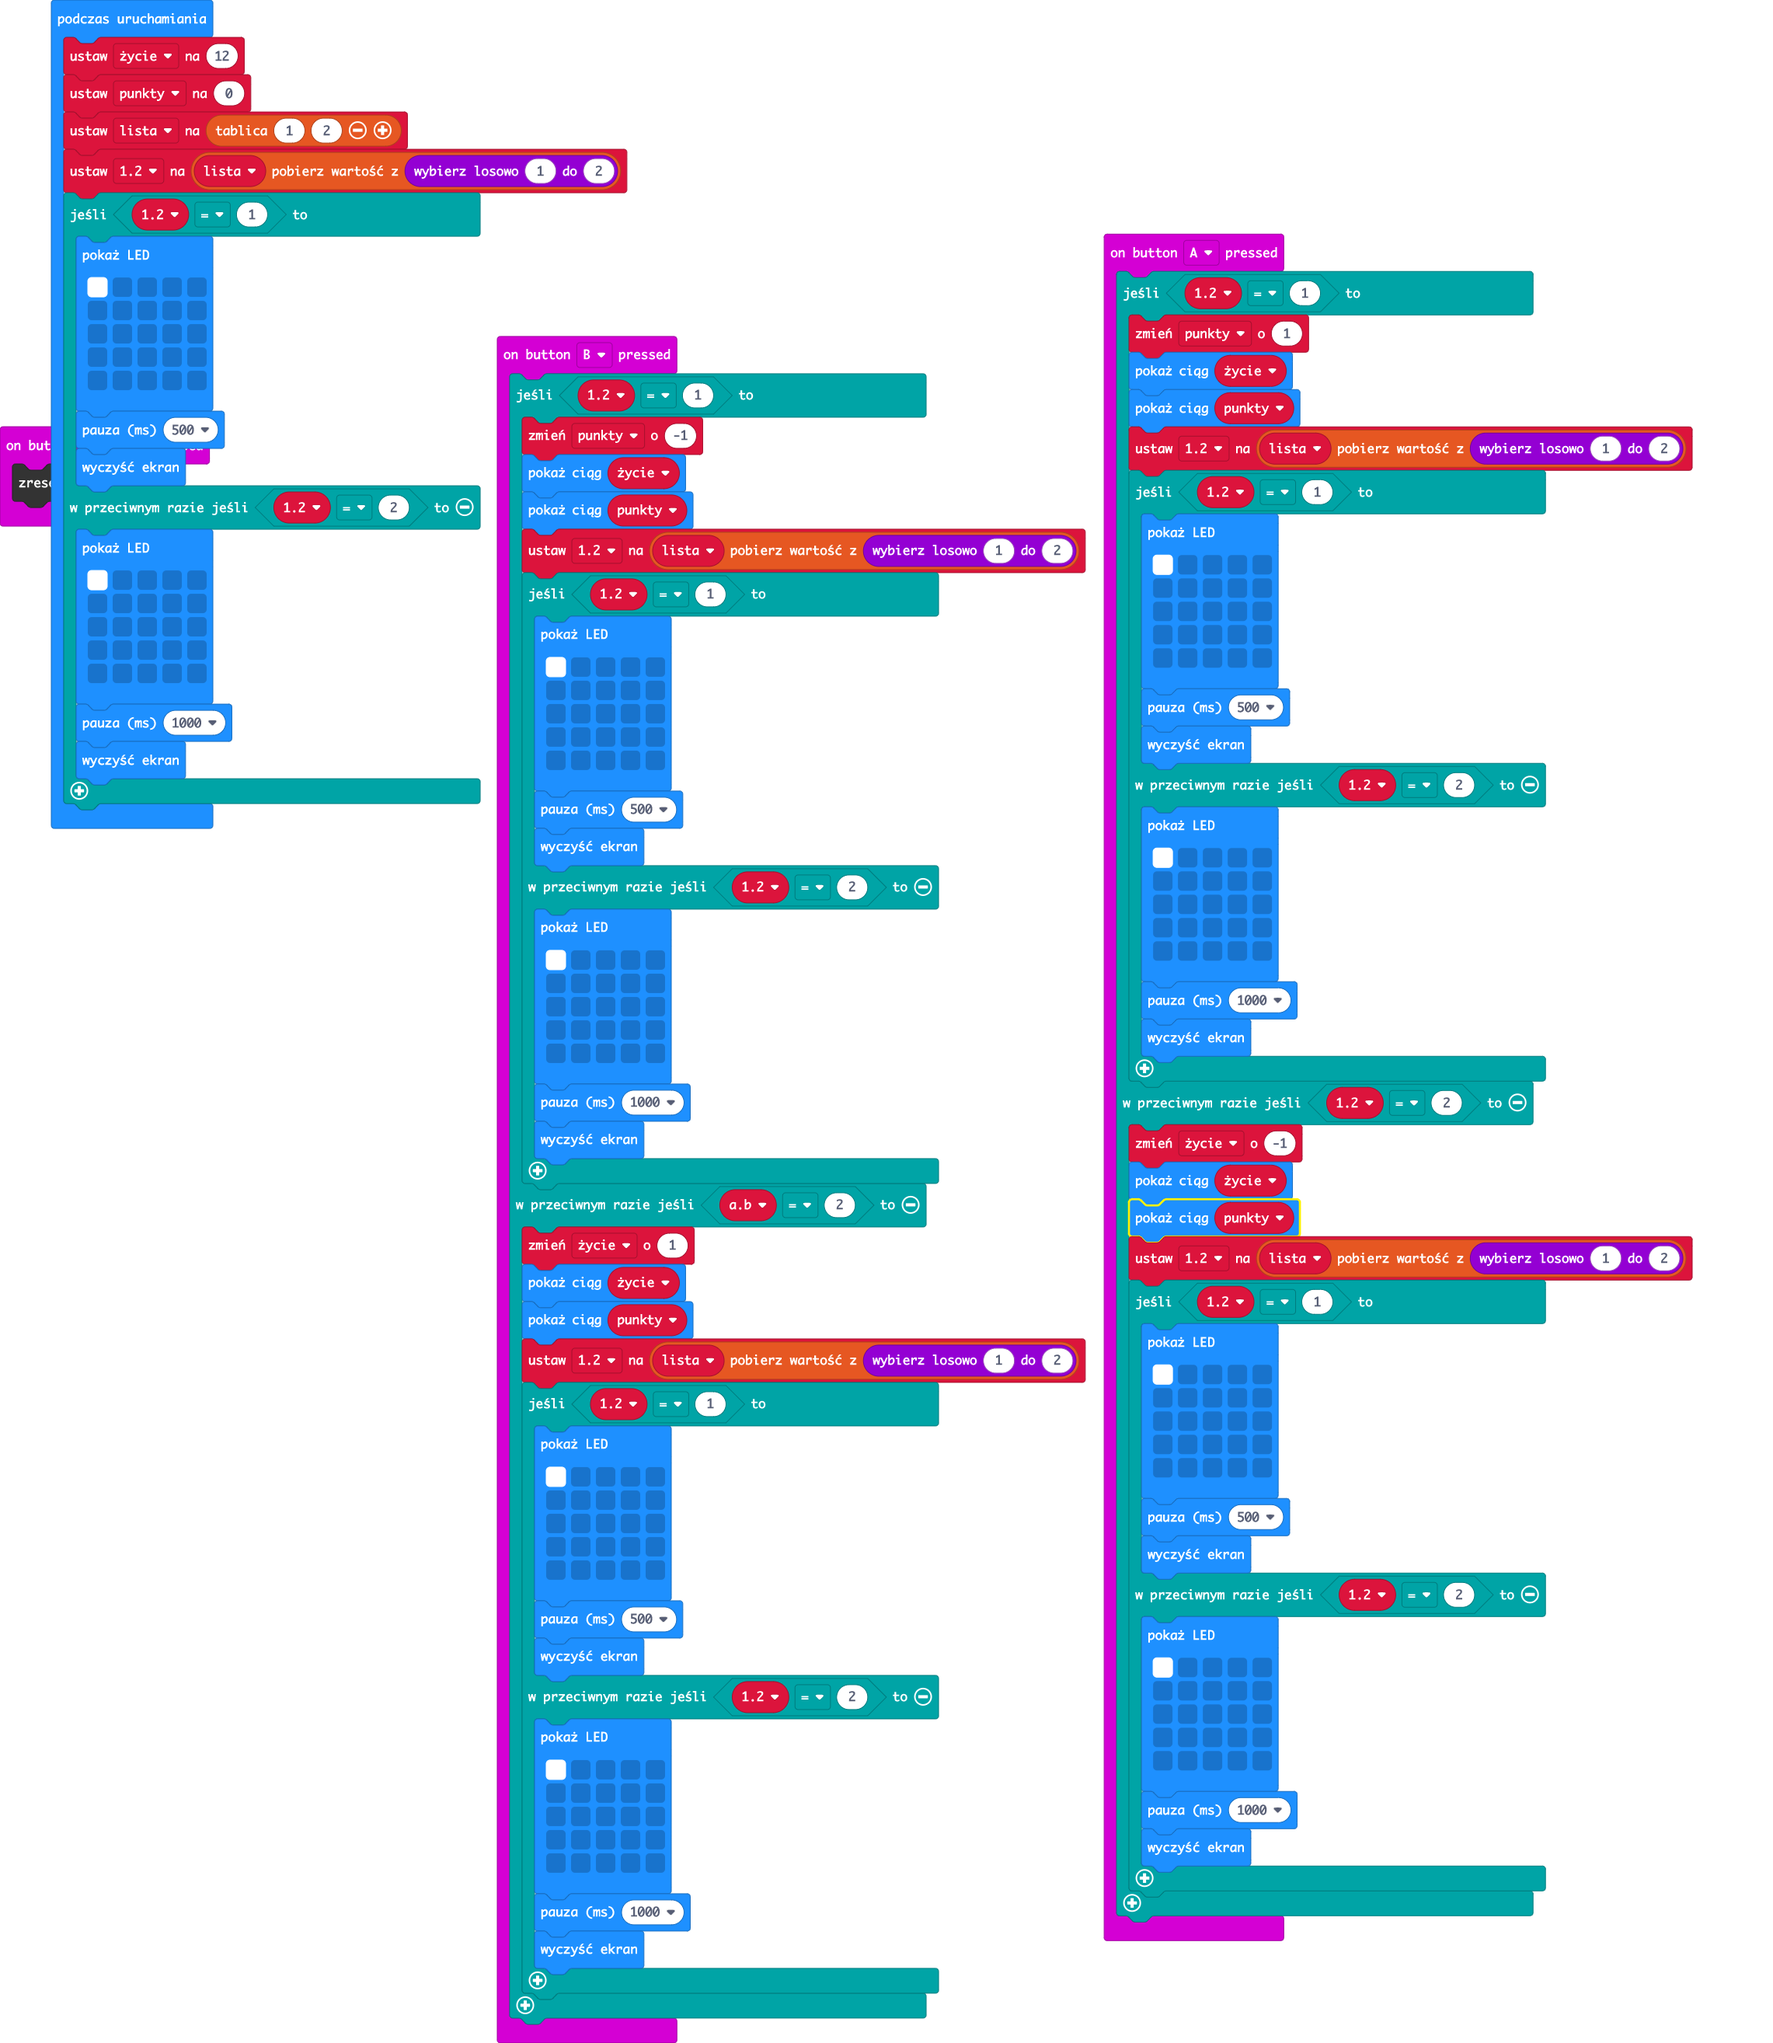
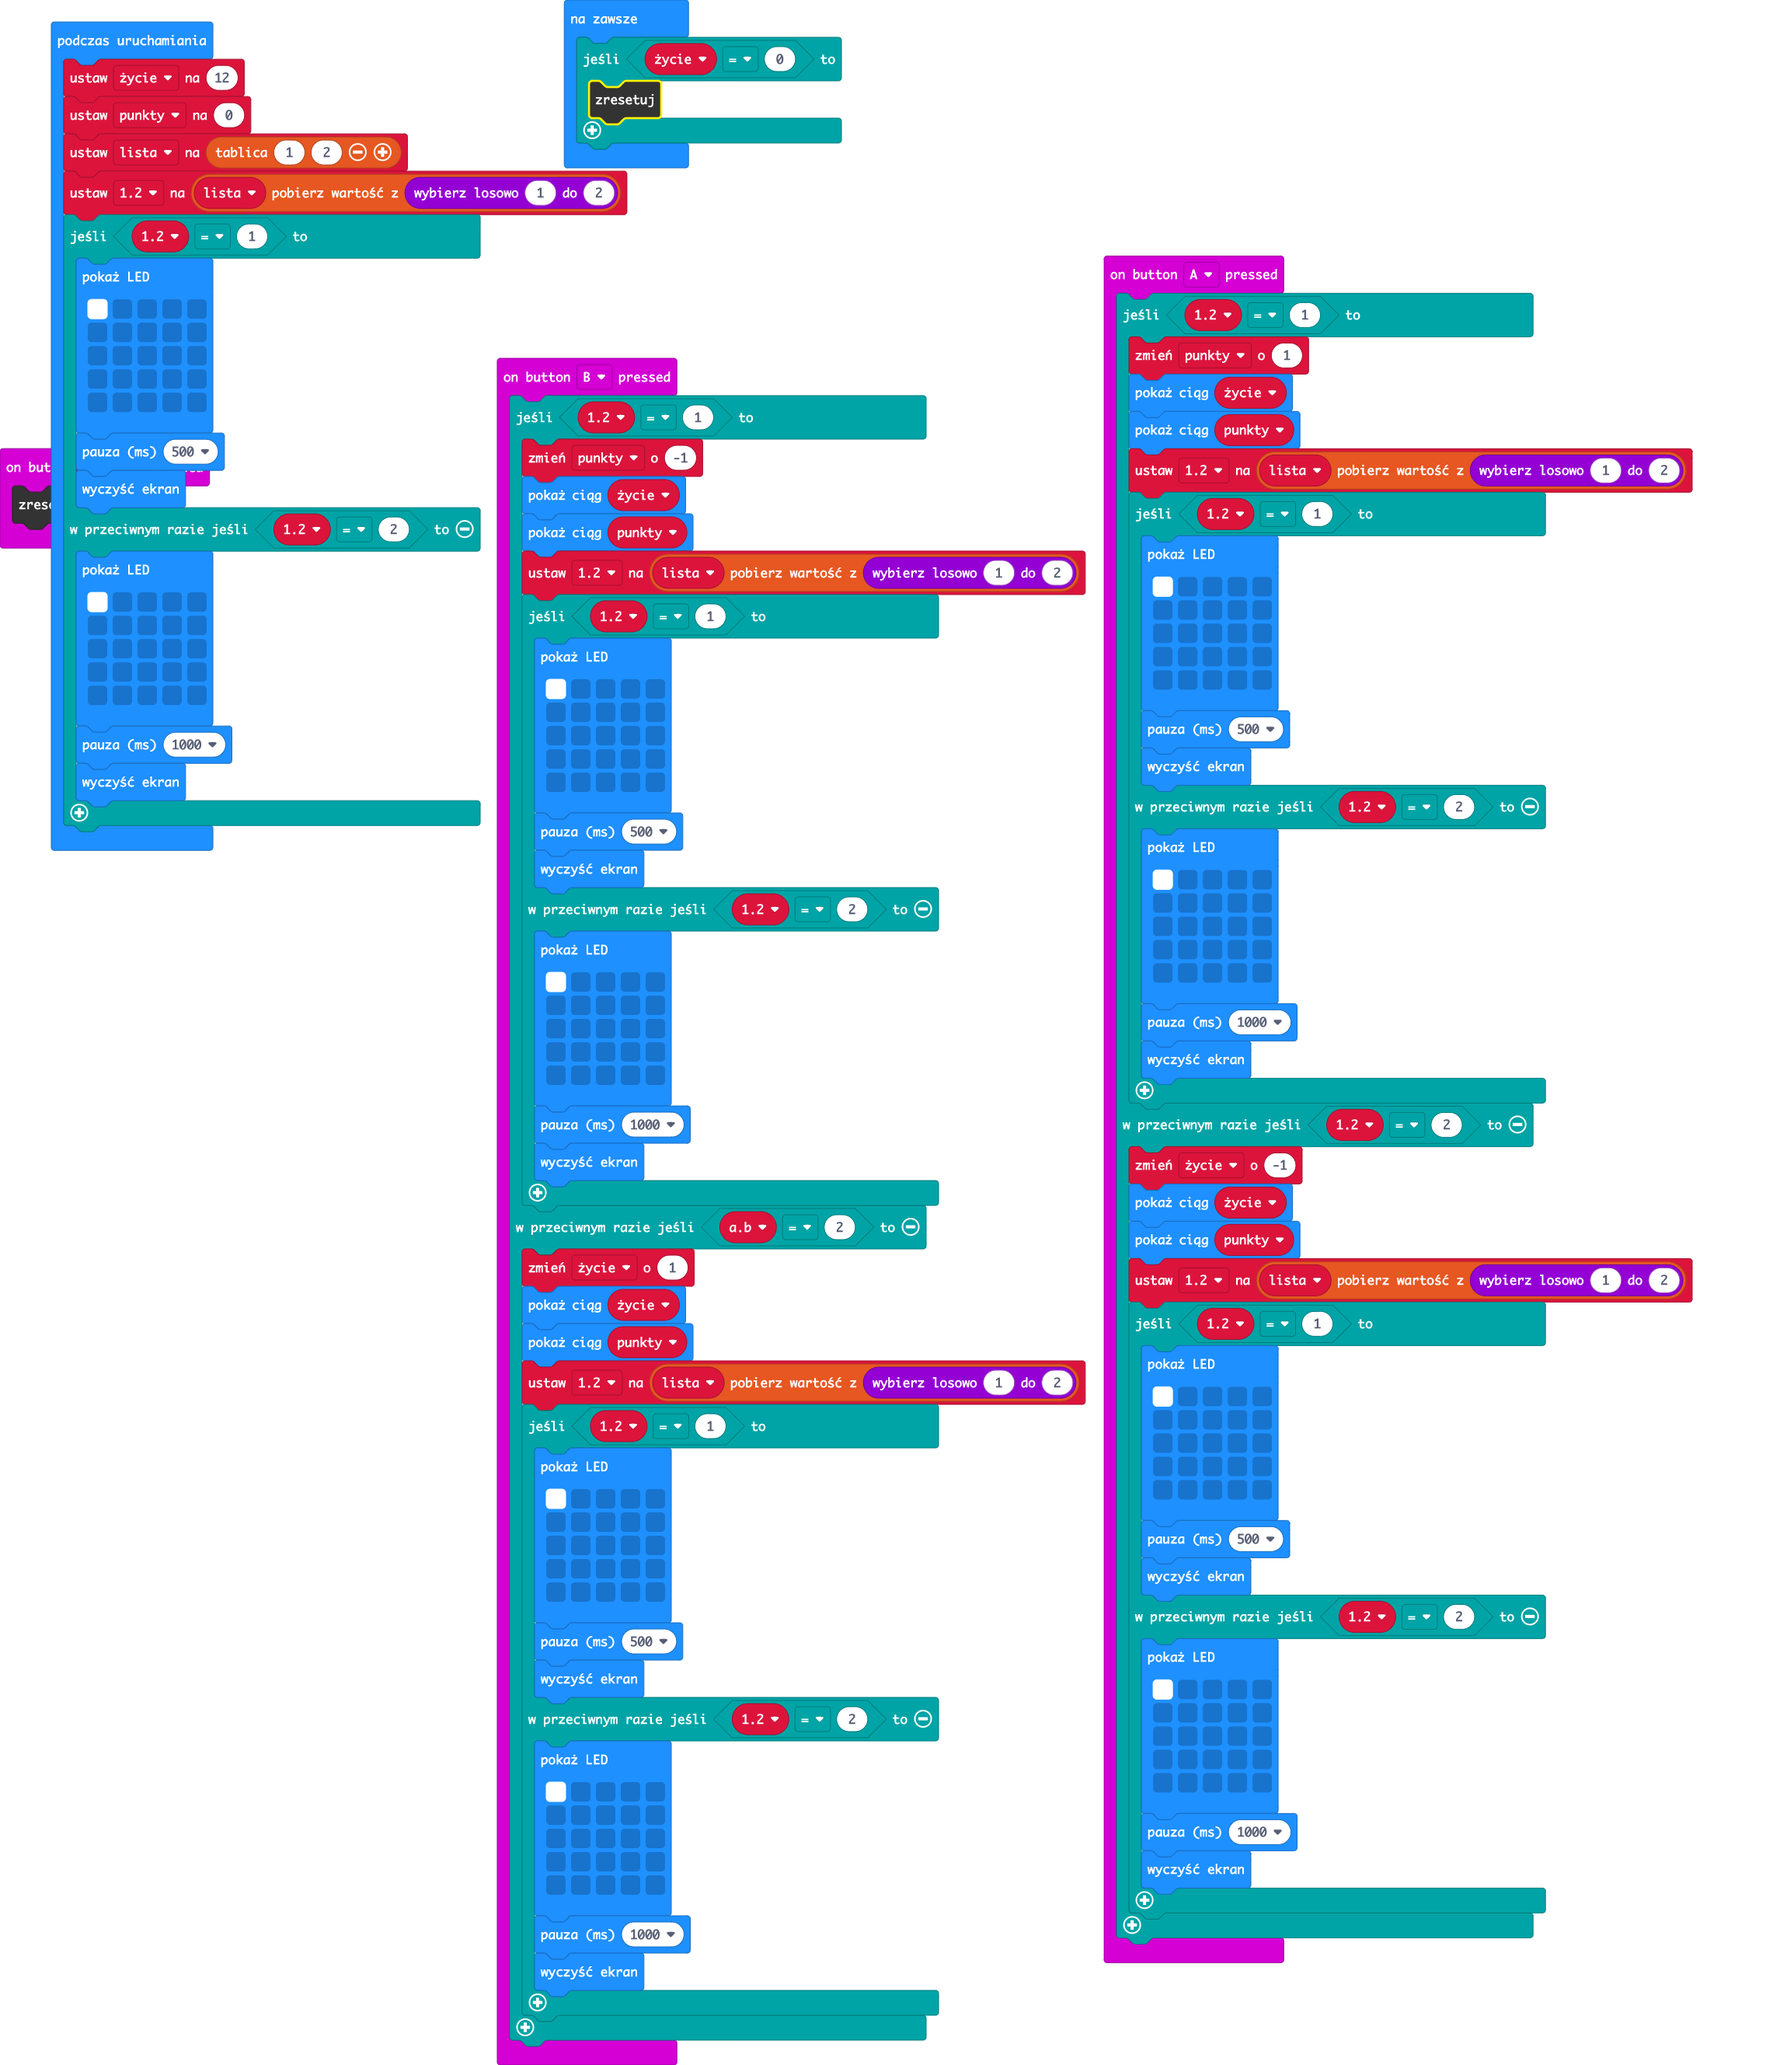
Update main.blocks, main.ts

Changed region(s): [[0.0, 0.0, 0.9645, 0.9669]]

diff --git a/main.ts b/main.ts
@@ -141,3 +141,8 @@ if (_12 == 1) {
     basic.pause(1000)
     basic.clearScreen()
 }
+basic.forever(function () {
+    if (życie == 0) {
+        control.reset()
+    }
+})
